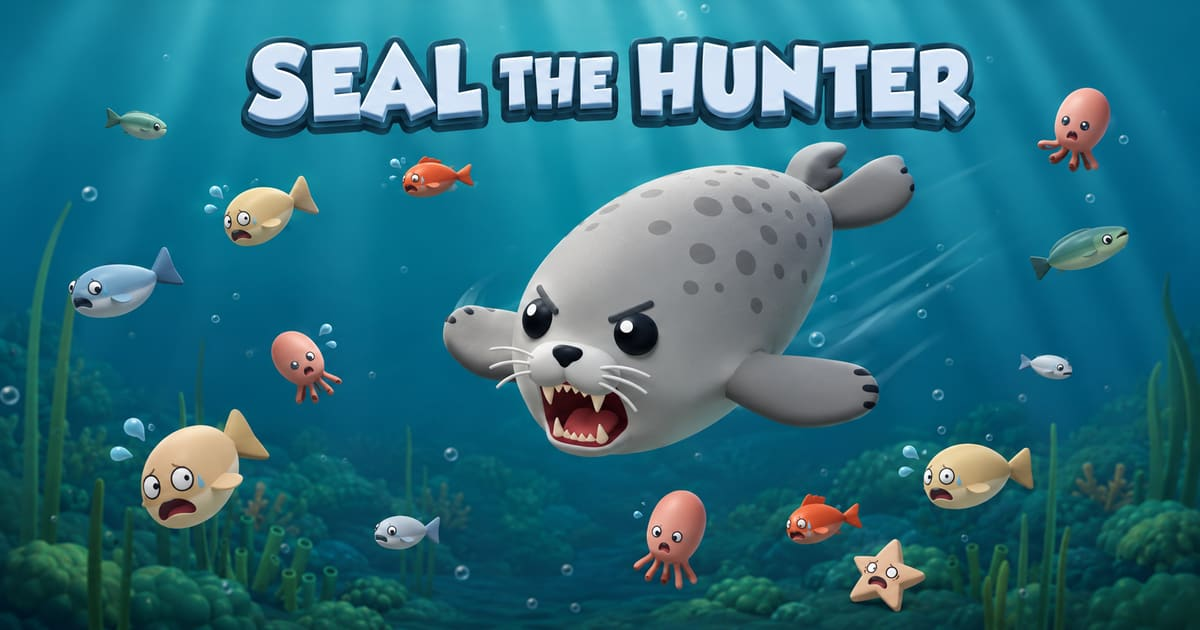
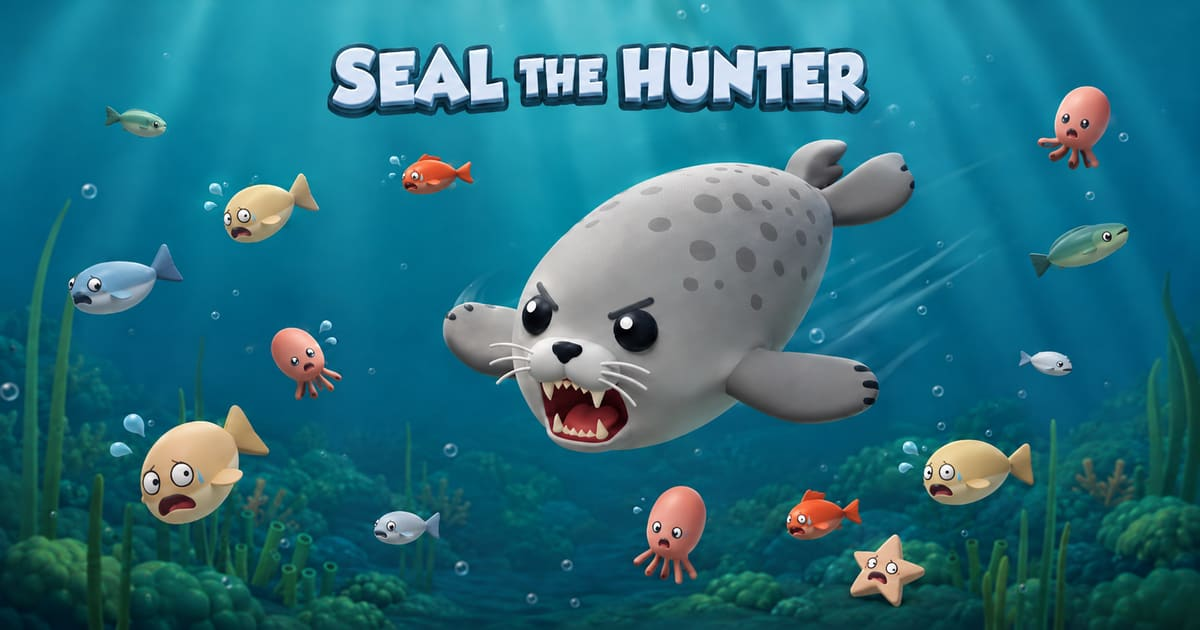
fix(game): rebuild landscape cover with a more compact title
Updated cover-src.png (same 1731×909 art) with a smaller, more compact wordmark so the
title isn't cropped at the left/right on some monitors (background-size:cover crops width).
Re-encoded → assets/cover.{avif,webp,jpg} (1200×630 — aspect unchanged, so OG meta untouched).
sw.js CACHE v12→v13.

diff --git a/public/games/seal-hunt-v1/sw.js b/public/games/seal-hunt-v1/sw.js
@@ -4,7 +4,7 @@
 // players ALWAYS get the latest build when online; fall back to cache only when offline.
 // (Cache-first previously pinned stale art/code until the cache name changed.)
 // skipWaiting + clients.claim make a new SW take control immediately on reload.
-const CACHE = 'seal-hunt-static-v12';
+const CACHE = 'seal-hunt-static-v13';
 const ASSETS = [
   './', './index.html', './style.css',
   './game.js', './i18n.js', './core/balance.js', './core/sim.js', './core/input.js', './core/theme.js', './core/leaderboard.js', './core/alias.js',
